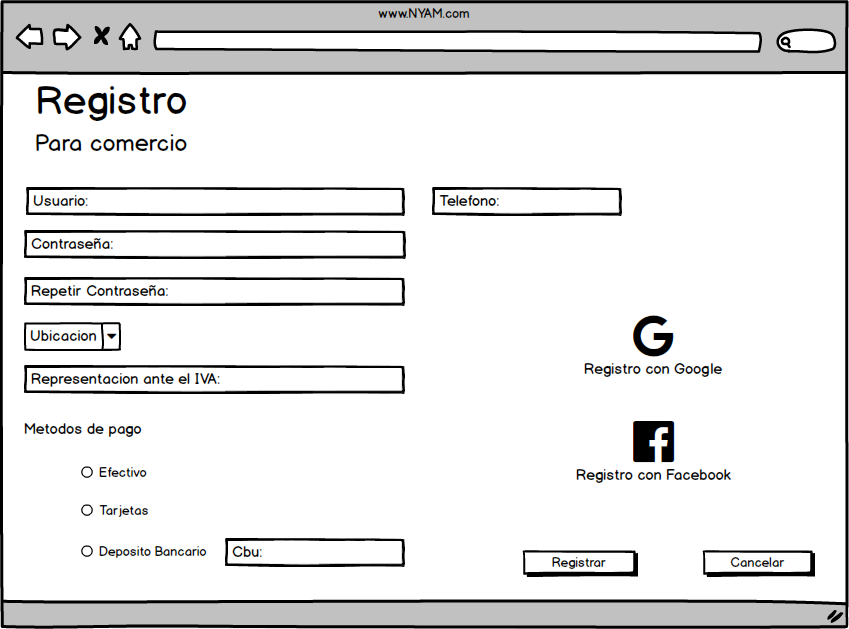
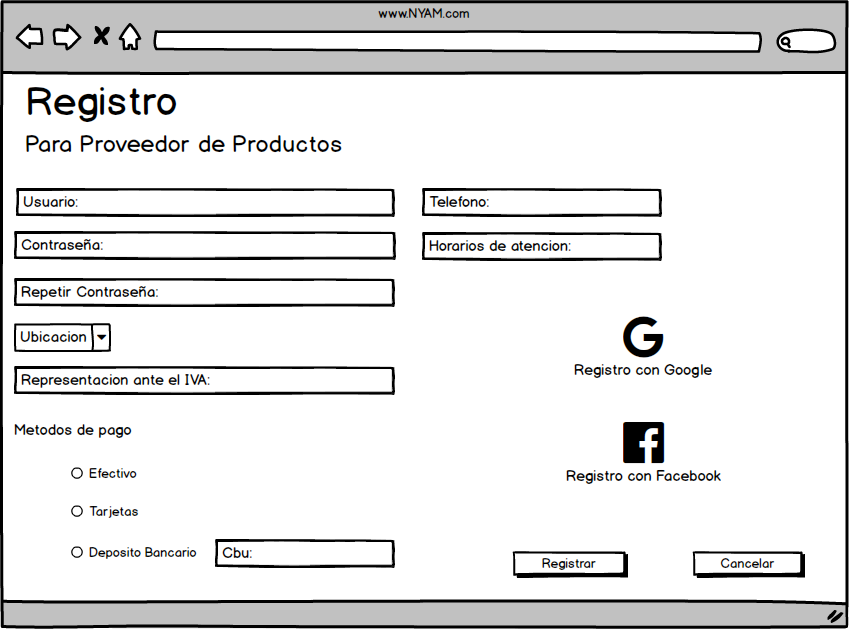
se arreglo pantallas proveedor y usuario

diff --git a/iteracion_2/Delivery.md b/iteracion_2/Delivery.md
@@ -69,7 +69,7 @@ _Curso alternativo_
 - - - 
 ### Pantalla de registro de proveedor de producto
 ![Pantalla Registro Comercio](registrocomercio.png)
-# modificar pantalla para que diga "proveedor de producto"
+
 - - -
 
 
